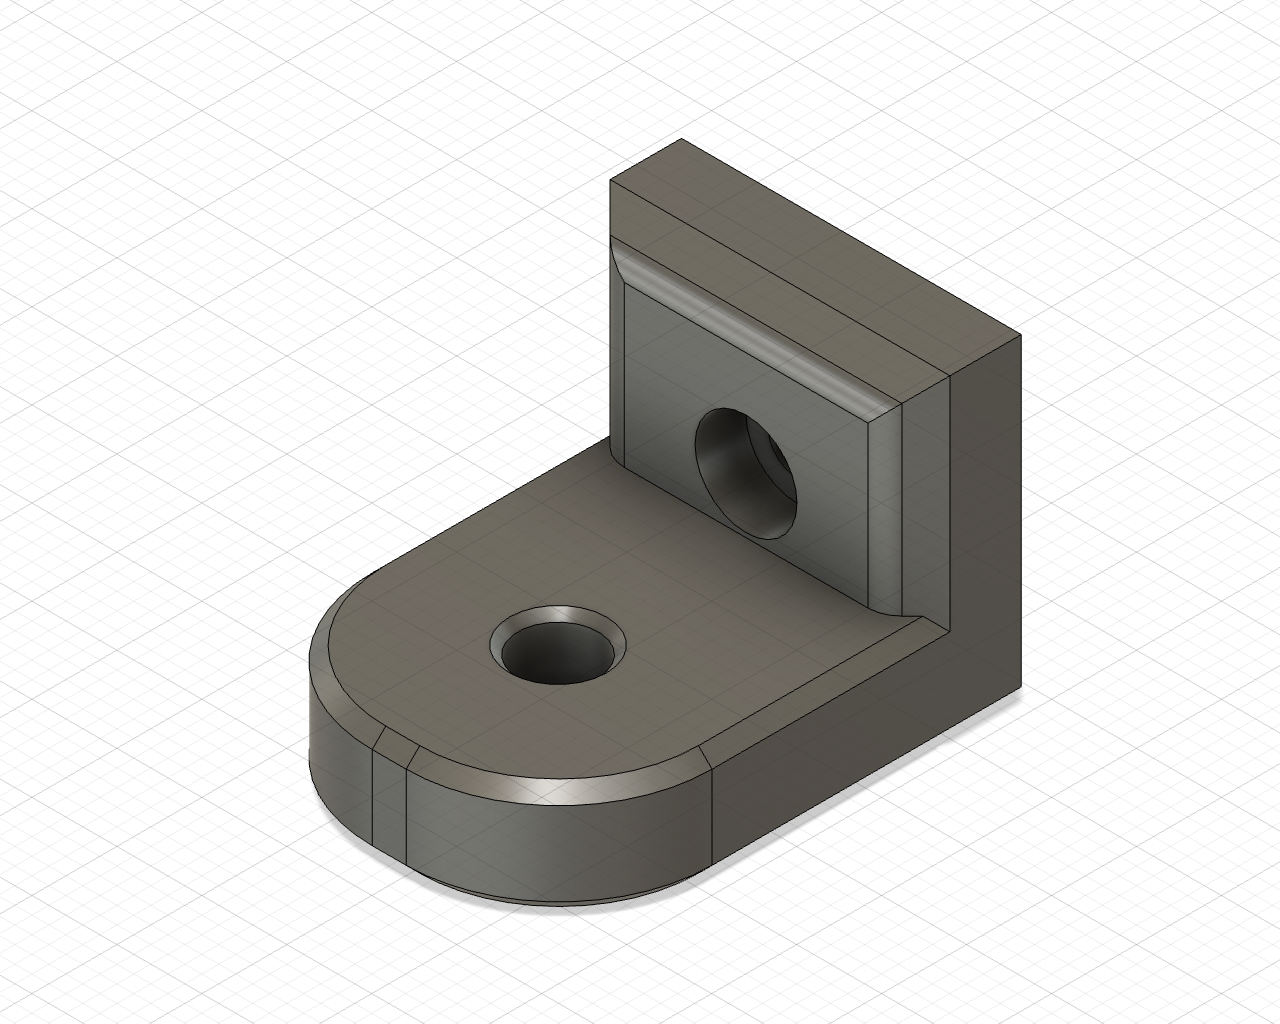
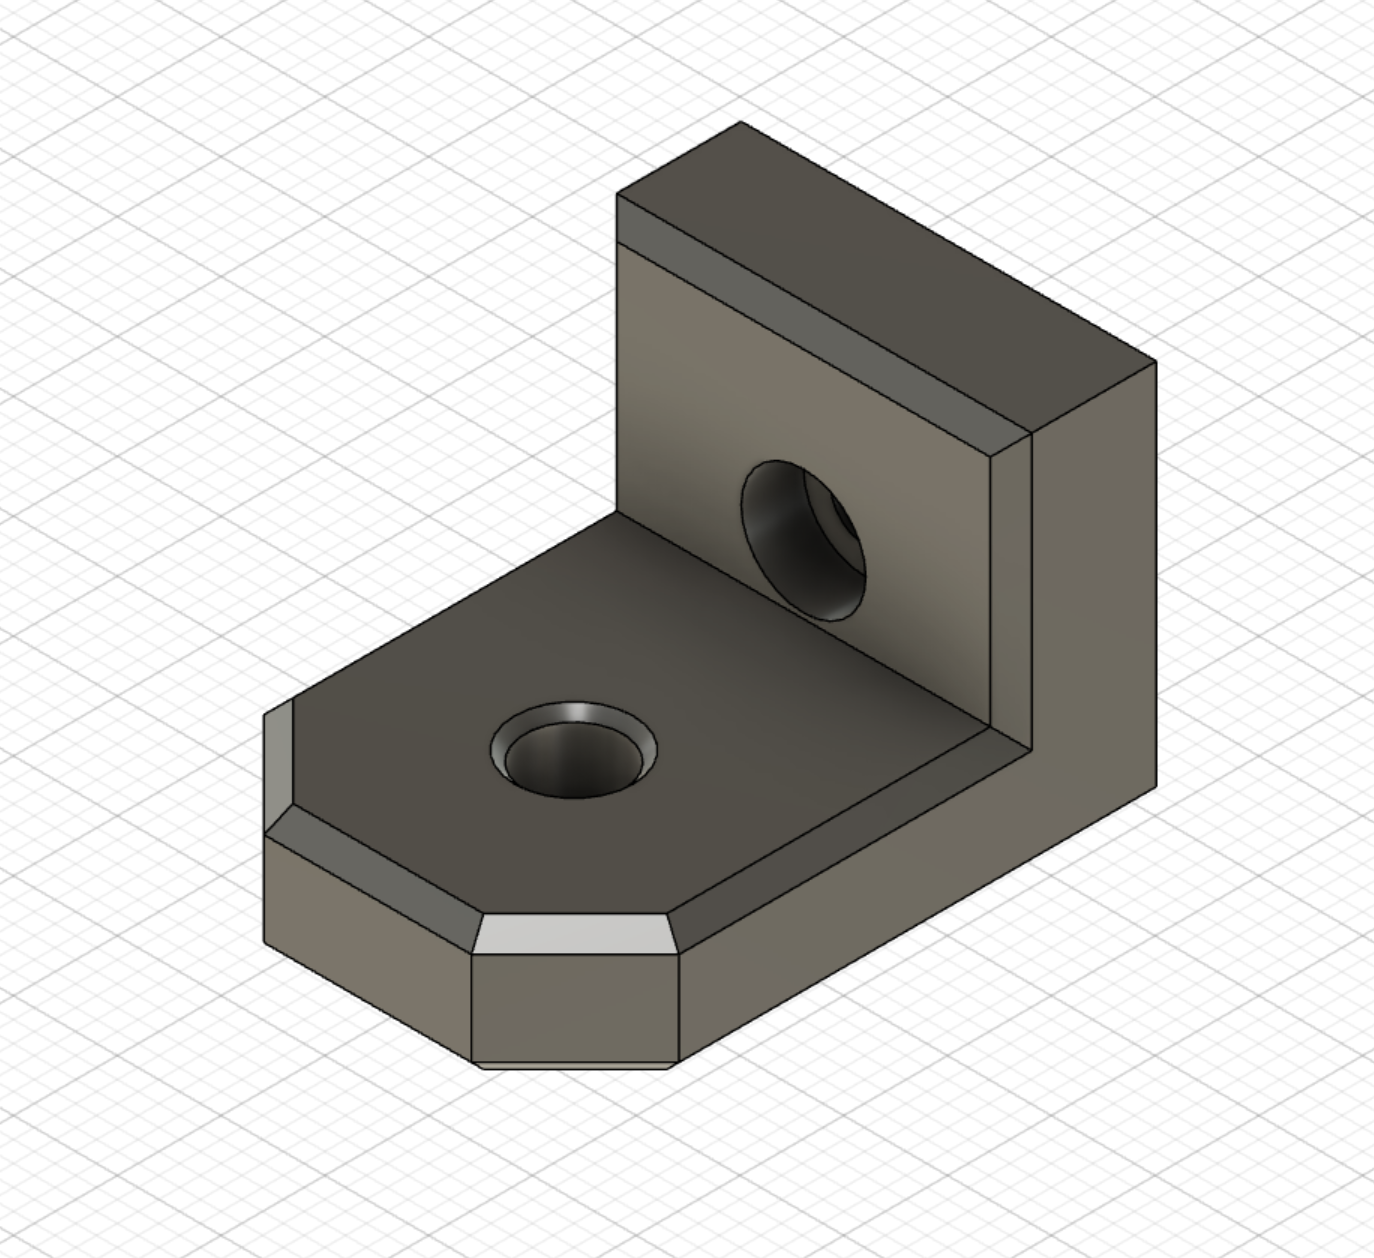
Update arm mount

diff --git a/Trident-Bowden-Guide/README.md b/Trident-Bowden-Guide/README.md
@@ -15,5 +15,9 @@ This is a small modification to the original mod by [GalvanicGlaze](https://gith
 - Screw arm on with M3x8 heatset, allowing the arm to still be able to swivel
 
 ## Changelog
+2022-10-06
+- Change print orientation
+- Add chambers for cleaner printing in new orientation
+
 2022-08-21
 - Initial release
